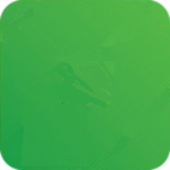
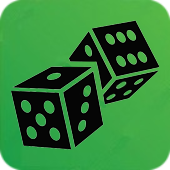
Game_70%

diff --git a/board.py b/board.py
@@ -102,6 +102,8 @@ class Ui(QMainWindow):
             self.DICE_1.hide()
             self.DICE_2.show()
 
+        self.DICE_1.setStyleSheet( "QPushButton {border-image: url(Resources/Dice/d1_0.png); border-radius: 15px;}" )
+
     @pyqtSlot()
     def button_clicked_2(self):
         print("clicked_2")
@@ -144,12 +146,20 @@ class Ui(QMainWindow):
             self.DICE_2.hide()
             self.DICE_1.show()
 
+        self.DICE_2.setStyleSheet( "QPushButton {border-image: url(Resources/Dice/d2_0.png); border-radius: 15px;}" )
+
     @pyqtSlot()
     def NewGame(self):
         self.Score_1 = 0
         self.Score_2 = 0
         self.Step_1 = 0
         self.Step_2 = 0
+
+        self.score_1.setText("SCORE_1: " + str(self.Score_1))
+        self.score_2.setText("SCORE_2: " + str(self.Score_2))
+
+        self.step_1.setText("STEP_1: " + str(self.Step_1))
+        self.step_2.setText("STEP_2: " + str(self.Step_2))
         
         self.updateStep(1, self.Step_1)
         self.updateStep(2, self.Step_2)
